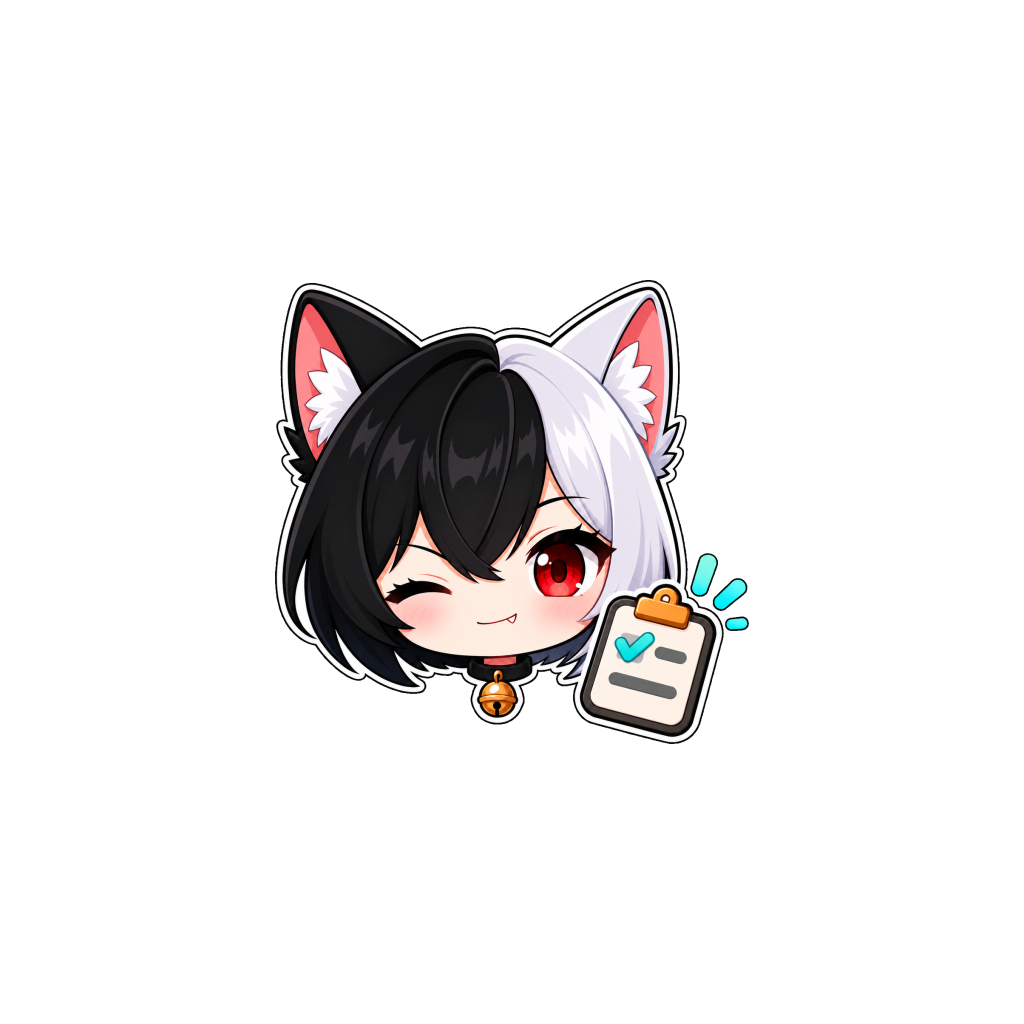
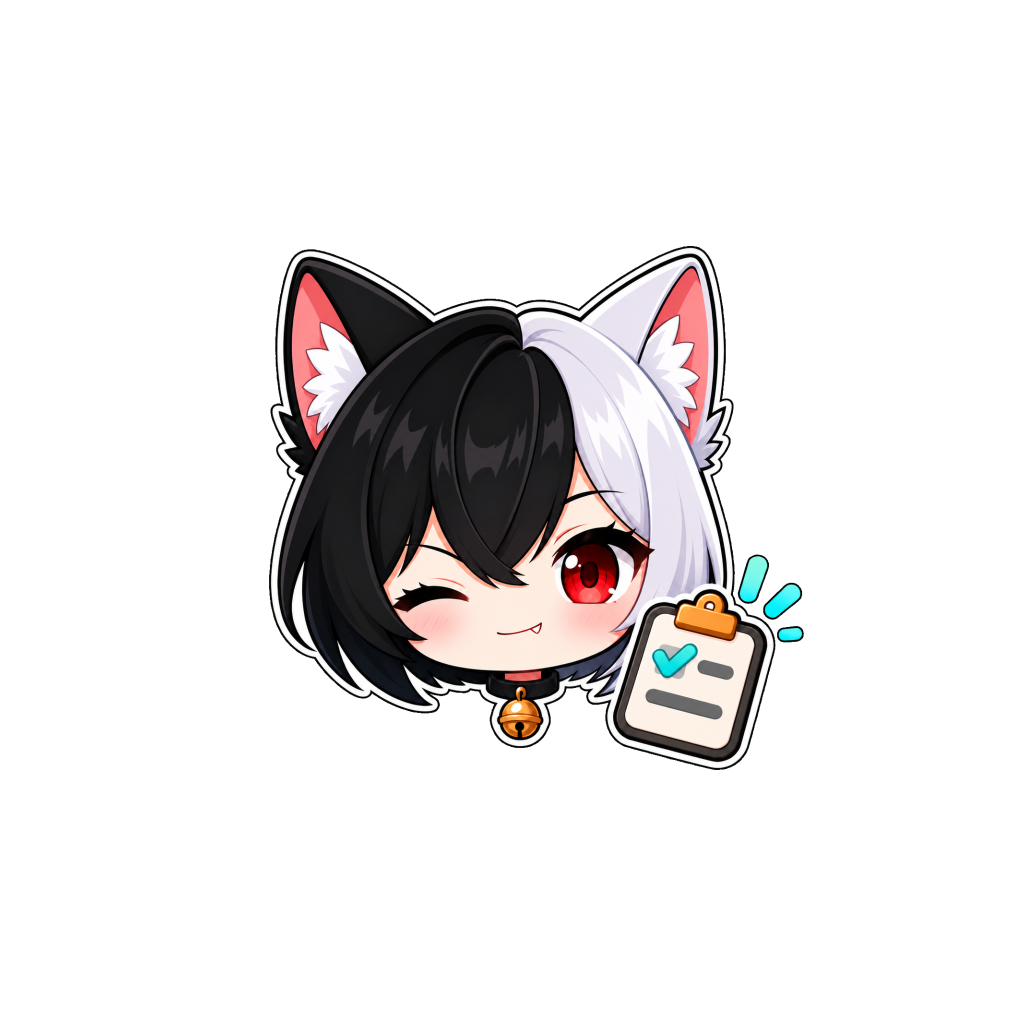
fix(brand): enlarge and optically center the launcher mascot

Changed region(s): [[0.25, 0.2188, 0.7812, 0.75]]

diff --git a/apps/mobile/moe/brand/README.md b/apps/mobile/moe/brand/README.md
@@ -24,3 +24,9 @@
 内置 imagegen 两次背景提取都输出 RGB 棋盘格，均拒绝直接打包。用户明确允许程序抠图后，使用工程内 Jimp，仅从画布边界连通的近灰色棋盘区域提取 Alpha；未以暗色阈值删除毛发。透明源中的 421098 个深色像素（RGB 最大值≤76）全部保持原 RGB 与不透明 Alpha。
 
 当前前景透明/半透明/不透明像素为 888212 / 2579 / 157785；最大不透明轮廓半径 310.501px，小于 66dp 安全圆的 312.889px。浅深背景、圆形与 squircle 本地预览和核验在 `evidence/development/icon-alpha-candidates/`。这些是静态遮罩预览，尚不代表真实 Launcher 验收。
+
+## vc36 图标版位修正
+
+用户指出 vc35 的图标主体偏小、视觉向左。前景改为原尺寸约112.9%，在1024px图层向右24px、向上4px；标准图标按相同比例修正。依据主角色视觉中心调整，不旋转或重绘角色。
+
+完整 Alpha 轮廓在72dp圆形视口内无裁切（最大半径338.389px，视口半径341.333px），圆角方形亦完整。这个设计比旧66dp保守安全圆更饱满；不宣称在任意 Launcher 动态变形下都零裁切。源透明位图不变，仅打包版位变化。

diff --git a/docs/todo-moe/docs/versions/0.2.0-dev-vc36-2026-09-13.md b/docs/todo-moe/docs/versions/0.2.0-dev-vc36-2026-09-13.md
@@ -1,0 +1,5 @@
+# 0.2.0 Dev / vc36 · 图标大小与视觉中心
+
+仅调整透明图标的打包尺寸与位置。用户反馈 vc35 偏小、向左；现放大约13%、向右微移，并检查圆形/圆角方形遮罩完整性。应用功能、数据、主题和动画代码不变。
+
+构建前像素检查：前景非全透明像素204177（旧160364），完整轮廓在72dp圆形可见区内无裁切。标准图标同步调整，透明原图未重画。实际APK和Launcher验收以随后记录为准。
